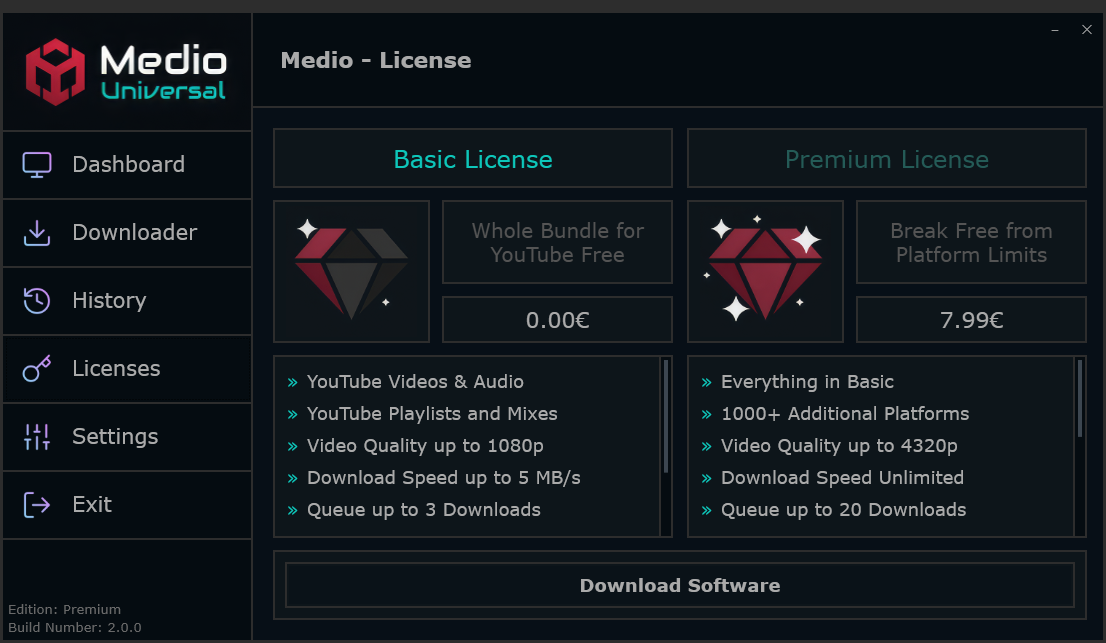
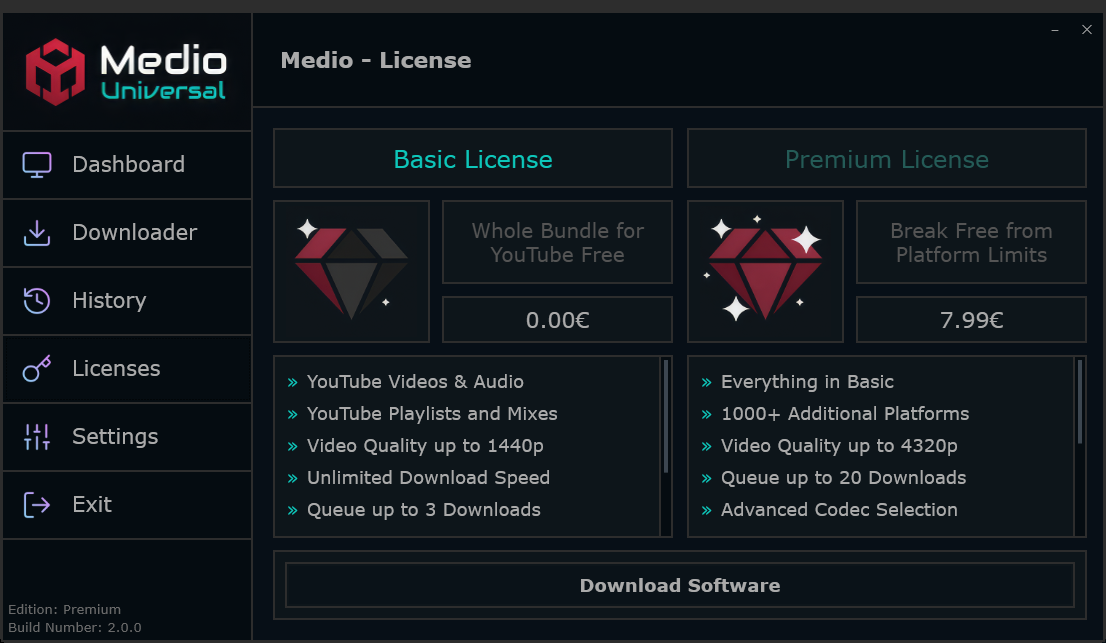
Version 2.0.0

Changed region(s): [[0.6456, 0.7154, 0.8915, 0.8087], [0.2767, 0.6843, 0.5226, 0.7776], [0.9837, 0.9953, 1.0, 1.0]]

diff --git a/README.md b/README.md
@@ -3,41 +3,27 @@
 </p>
 <h1 align="center">Medio - Universal Downloader</h1>
 <p align="center">
-  <b>Effortlessly download videos, extract high-quality audio and save entire playlists from multiple platforms.</b><br>
-  <b>Experience a fast, reliable and feature-rich universal downloader optimized for performance.</b>
+  <b>A Windows GUI for yt-dlp and FFmpeg with cloud sync, queue processing, and advanced preprocessing.</b>
 </p>
 <p align="center">
   <a href="https://github.com/BerndHagen/Medio-Universal-Downloader/releases"><img src="https://img.shields.io/github/v/release/BerndHagen/Medio-Universal-Downloader?include_prereleases&style=flat-square&color=CD853F" alt="Latest Release"></a>&nbsp;&nbsp;<a href="https://github.com/BerndHagen/Medio-Universal-Downloader/blob/main/LICENSE"><img src="https://img.shields.io/badge/License-Freemium-red?style=flat-square" alt="License"></a>&nbsp;&nbsp;<a href="https://dotnet.microsoft.com/download/dotnet/10.0/runtime"><img src="https://img.shields.io/badge/.NET-10.0-512BD4?style=flat-square" alt=".NET Version"></a>&nbsp;&nbsp;<img src="https://img.shields.io/badge/Platform-Windows-0078D6?style=flat-square" alt="Platform">&nbsp;&nbsp;<img src="https://img.shields.io/badge/Architecture-x64-lightgrey?style=flat-square" alt="Architecture">&nbsp;&nbsp;<img src="https://img.shields.io/badge/Status-Active-brightgreen?style=flat-square" alt="Status">&nbsp;&nbsp;<a href="https://github.com/BerndHagen/Medio-Universal-Downloader/issues"><img src="https://img.shields.io/badge/Issues-0_open-orange?style=flat-square" alt="Open Issues"></a>
 </p>
 
-**Medio** is a user-friendly software for downloading video content from various online platforms. Whether you're looking to save videos, extract audio or download entire playlists, this application provides an all-in-one tool to meet your needs. The simple, intuitive interface lets you quickly input a URL, choose your desired quality and filename, and start the download with just a few clicks.
-
-### **Why Choose This Tool?**
-
-While command-line tools like yt-dlp and FFmpeg are powerful, they require technical knowledge and complex command syntax. This downloader provides:
-
-- **Intuitive Interface:** No command-line experience needed - everything is accessible through a clean, modern UI
-- **Smart Defaults:** Optimized settings that work out of the box, with advanced options for power users
-- **Batch Processing:** Queue multiple downloads and let them run automatically
-- **Progress Tracking:** Real-time progress bars, speed indicators, and taskbar integration
-- **Error Resilience:** Automatic retry mechanisms and intelligent error handling
-- **Hardware Acceleration:** One-click GPU acceleration for faster processing without manual configuration
-- **Cloud Sync:** Never lose your settings - seamlessly sync preferences across all your devices
+**Medio** is a graphical frontend for [yt-dlp](https://github.com/yt-dlp/yt-dlp) and [FFmpeg](https://ffmpeg.org) that wraps these open-source command-line tools in an accessible Windows interface. It handles video downloads, audio extraction, playlist processing, and provides cloud-synced settings, a batch queue, and an audio processing pipeline on top of the core tools.
 
 ### **Key Features**
 
-- **Video Downloads:** Download videos from various platforms in a variety of formats and qualities, so you can enjoy your favorite content offline whenever you need it.
-- **Audio Extraction:** Extract and download audio from any supported video with just a few clicks.
-- **Playlist Downloads:** Download entire YouTube playlists and mixes at once, saving time and effort - especially helpful for bulk offline viewing.
-- **Queue Functionality:** Add multiple videos for sequential automated downloading with improved resilience for protected content.
-- **Advanced Customization:** Fine-tune downloads with hardware acceleration GPU selection, download speed limits, audio normalization, metadata embedding, and preferred video codecs.
-- **Universal Downloads:** Premium users can access content from 1000+ platforms and websites, making this a truly universal downloader for your media needs.
-- **Audio Processing:** Adjust audio pitch and speed, apply creative effects like reverb, echo, bass boost, 8D audio, or vaporwave.
-- **SponsorBlock Integration:** Premium users can automatically skip or mark sponsored segments in YouTube videos.
-- **Taskbar Integration:** View real-time download progress directly in the Windows taskbar for convenient monitoring without switching windows.
-- **System Notifications:** Receive desktop notifications when downloads complete, with quick access to open the downloaded file or its folder location.
-- **Cloud Profile:** Your settings, statistics, and progress sync automatically across devices - never reconfigure from scratch.
-- **Privacy Control:** Disable download history tracking to prevent URLs and titles from being stored.
+- **Video Downloads:** Download videos in MP4, MKV, AVI, WEBM, WMV, MOV, FLV at resolutions from 144p to 4320p
+- **Audio Extraction:** Extract audio as MP3, FLAC, OGG, OPUS, WAV, M4A, AAC, WMA at bitrates from 32k to 320k
+- **Playlist Processing:** Batch-download YouTube playlists and mixes
+- **Queue System:** Sequential automated downloads with configurable concurrency
+- **Hardware Acceleration:** GPU encoding via NVIDIA NVENC, AMD AMF, or Intel QuickSync
+- **Universal Platform Support (Premium):** Access 1000+ platforms beyond YouTube
+- **Audio Processing (Premium):** Pitch/speed adjustment, reverb, echo, bass boost, 8D audio, vaporwave
+- **SponsorBlock (Premium):** Skip or mark sponsored segments in YouTube videos
+- **Taskbar Integration:** Real-time progress in the Windows taskbar
+- **Cloud Sync:** Settings, statistics, and history sync across devices (cross-device sync is Premium)
+- **Privacy Control:** Optionally disable download history tracking
 
 ### **Supported Formats**
 
@@ -140,7 +126,12 @@ If you have questions or issues related to these libraries, please [open an issu
 
 ## **License Options and Benefits**
 
-Medio offers two license tiers: a free Basic tier with full YouTube support and a one-time Premium purchase that unlocks universal platform support and advanced features. After purchasing through Stripe's secure payment system, you'll receive your license key via email from Arctisoft-Studio within **5-10 minutes**. 
+Medio offers two license tiers:
+
+- **Basic (Free):** YouTube support with 1440p max resolution, unlimited download speed
+- **Premium (€7.99 one-time):** 1000+ platforms, 4K/8K, audio processing, cross-device sync
+
+License keys are delivered via email within 5-10 minutes after purchase.
 
 | Feature | Basic | Premium |
 |---------|:-----:|:-------:|
@@ -148,13 +139,13 @@ Medio offers two license tiers: a free Basic tier with full YouTube support and 
 | YouTube (videos, audio, playlists, mixes) | ✔ | ✔ |
 | 1000+ additional platforms (Twitch, Vimeo, SoundCloud, etc.) | – | ✔ |
 | **VIDEO & AUDIO QUALITY** | | |
-| Video quality up to 1080p (Full HD) | ✔ | ✔ |
+| Video quality up to 1440p (QHD) | ✔ | ✔ |
 | Video quality up to 4K and 8K (4320p) | – | ✔ |
 | All audio bitrates (32kbps - 320kbps) | ✔ | ✔ |
 | All video formats (MP4, MKV, AVI, WEBM, WMV, MOV, FLV) | ✔ | ✔ |
 | All audio formats (MP3, FLAC, OGG, OPUS, WAV, M4A, AAC, WMA) | ✔ | ✔ |
 | **DOWNLOAD PERFORMANCE** | | |
-| Download speed limit | 5 MB/s | Unlimited |
+| Download speed | Unlimited | Unlimited |
 | Simultaneous downloads in queue | Up to 3 | Up to 20 |
 | Hardware-accelerated conversion (NVIDIA, AMD, Intel) | ✔ | ✔ |
 | **ENCODING OPTIONS** | | |
@@ -175,7 +166,7 @@ Medio offers two license tiers: a free Basic tier with full YouTube support and 
 | Cloud-synced settings | Current device only | All devices |
 | Cross-device profile synchronization | – | ✔ |
 | Download history | 20 entries (2 pages) | 100 entries (10 pages) |
-| Account persistence | Auto-deletion after 180 days inactivity | Permanent |
+| Account persistence | Auto-deletion after 365 days inactivity | Permanent |
 | **PRICE** | **Free** | **€7.99** (one-time) |
 
 When your history reaches its limit, the **oldest entries are automatically removed** to make room for new downloads. Your most recent downloads are always preserved.
@@ -249,12 +240,12 @@ Settings → Advanced → "Track and Save Downloads in History" → Set to **Dis
 ### Data Retention and Deletion
 
 **Account Retention:**
-- **Basic License:** Inactive accounts (no activity for 180 days) are automatically deleted
+- **Basic License:** Inactive accounts (no activity for 365 days) are automatically deleted
 - **Premium License:** Accounts are retained indefinitely
 
 **Deleting Your Data:**
 - **Individual History Entries:** Right-click any entry in the History tab → Delete
-- **Complete Account Deletion:** Navigate to Settings → scroll to "Delete Account" button → confirm twice, or wait 180 days of inactivity for automatic deletion (Basic accounts only)
+- **Complete Account Deletion:** Navigate to Settings → scroll to "Delete Account" button → confirm twice, or wait 365 days of inactivity for automatic deletion (Basic accounts only)
 
 **What Happens When Deleted:**
 - All cloud data is permanently removed
@@ -284,7 +275,7 @@ License keys serve two critical purposes: unlocking Premium features and enablin
    - Your progress, settings, and history remain consistent across all devices
 
 **Important Notes:**
-- **Basic License Limitation:** Basic users cannot sync across devices. If you reinstall Windows or switch computers, you lose access to your profile (automatic deletion after 180 days of inactivity)
+- **Basic License Limitation:** Basic users cannot sync across devices. If you reinstall Windows or switch computers, you lose access to your profile (automatic deletion after 365 days of inactivity)
 - **Premium Benefit:** Your license key is your "passport" to access your profile from any device, anytime
 - **Device Security:** License keys can be activated on up to 2 devices simultaneously for security purposes
 - **Profile Persistence:** Premium profiles are never automatically deleted - they're retained indefinitely
@@ -353,38 +344,41 @@ Follow these steps to start downloading content:
 
 ## **Advanced Settings**
 
-For advanced users, Medio offers an Advanced Settings section accessible from the main navigation, allowing fine-tuned control over download and conversion processes:
+The Advanced Settings panel provides granular control over download and conversion parameters:
 
-- **Video & Audio Quality:** Select preferred resolution (144p–4320p) and bitrate (32k–320k) - Basic users are limited to 1080p max, Premium unlocks up to 4K/8K.
-- **Hardware Acceleration:** Manually select GPU acceleration (NVIDIA NVENC, AMD AMF, Intel QuickSync) or disable for CPU-only processing, with improved detection for legacy hardware.
-- **Download Speed Limit:** Configure maximum download speeds from 1 MB/s to unlimited (Premium) to manage bandwidth usage.
-- **Download History Tracking:** Enable or disable recording of download URLs and titles - when disabled, only statistics are tracked.
-- **Buffer Size:** Adjust download buffer size (1024–9216 KB) for optimal streaming performance depending on your connection.
-- **Concurrent Fragments:** Control the number of simultaneous download fragments (1–16) for faster parallel downloading.
-- **Retry & Timeout:** Configure automatic retry attempts (5–Infinite) and connection timeout thresholds (15–300 seconds) for improved reliability.
-- **Geo-bypass:** Bypass region-locked content restrictions (Disabled, Enabled, US Region) for accessing geographically restricted media.
-- **Subtitle Extraction:** Download subtitle tracks in multiple modes (Disabled, Auto English, All Languages).
-- **SponsorBlock:** Premium feature to automatically skip or mark sponsored segments in YouTube videos.
-- **Audio Normalization:** Adjust volume levels (Disabled, Light, Medium, Strong, Aggressive) for consistent audio playback quality.
-- **Metadata Embedding:** Toggle inclusion of thumbnails and metadata in downloaded files.
-- **Video Codec:** Choose preferred codecs - Basic users can use H.264, Premium users unlock H.265, VP8, VP9, AV1, and MPEG-4.
-- **Video Audio Codec:** Select the audio codec used when downloading video files (Auto, AAC, MP3, Opus, Copy).
-- **Deinterlace:** Process interlaced video content for progressive playback (Disabled, Auto, Force).
-- **Two-Pass Encoding:** Premium feature that enables higher quality encoding at the cost of longer processing time.
-- **FFmpeg Encoding Controls:** Fine-tune encoding with preset selection (Ultrafast–Veryslow), CRF quality values (18–35 or Auto), and thread count configuration for multi-core optimization.
-- **Audio Processing Suite (Premium):** Complete audio processing toolkit including:
-  - Audio pitch adjustment (0.25x - 2.0x)
-  - Audio speed adjustment (0.25x - 2.0x)
-  - Audio enhancement (professional 6-stage mastering chain)
-  - Creative FX (Reverb, Echo, Bass Boost, 8D Audio, Vaporwave)
+**Download Configuration:**
+- Quality selection (144p–4320p video, 32k–320k audio) — Basic: up to 1440p, Premium: up to 4K/8K
+- Download speed limit (1 MB/s to unlimited)
+- Hardware acceleration (NVIDIA NVENC, AMD AMF, Intel QuickSync, CPU-only)
+- Network tuning: concurrent fragments (1–16), retries (5–Infinite), timeout (15–300s)
+- Buffer size (1024–9216 KB)
+- Geo-bypass for region-locked content
+- Subtitle extraction (Disabled, English, All Languages)
+- Download history tracking toggle
+
+**Encoding Options:**
+- Video codec: H.264 (Basic) / H.264, H.265, VP8, VP9, AV1, MPEG-4 (Premium)
+- Video audio codec: Auto, AAC, MP3, Opus, Copy
+- FFmpeg presets (Ultrafast–Veryslow), CRF quality (18–35 or Auto), thread count
+- Two-pass encoding (Premium)
+- Deinterlace (Disabled, Auto, Force)
+- Metadata embedding (thumbnails, title, artist)
+- Audio normalization (5 intensity levels)
+
+**Audio Processing (Premium):**
+- Pitch adjustment (0.25x–2.0x)
+- Speed adjustment (0.25x–2.0x)
+- Audio enhancement (6-stage mastering chain)
+- Creative FX (Reverb, Echo, Bass Boost, 8D Audio, Vaporwave)
+
+**Additional:**
+- SponsorBlock ad-skipper for YouTube (Premium)
 
 All settings sync automatically across devices for Premium users.
 
 ## **Download Status Guide**
 
-During downloads and conversions, Medio provides detailed status information to keep you informed about what's happening. These status indicators help you understand the current operation and identify any issues.
-
-Below are the status messages you may encounter:
+Medio displays real-time status information during downloads and conversions.
 
 ### Progress Status Messages
 
@@ -392,7 +386,7 @@ Below are the status messages you may encounter:
 |-------------------------|-------------------------------------------------------------------------|
 | `Scanning`              | Validating and analyzing the provided URL                              |
 | `Loading Tools`         | Initializing download components and preparing resources               |
-| `Building Command`      | Assembling command arguments for yt-dlp and ffmpeg                     |
+| `Building Command`      | Assembling command arguments for yt-dlp and FFmpeg                     |
 | `Preparing Next`        | Processing the next video in a playlist/queue after successful download |
 | `Downloading: XX%`      | Live download progress with percentage and speed information           |
 | `Converting: XX%`       | Video conversion progress with speed and duration information          |
@@ -411,18 +405,18 @@ Below are the status messages you may encounter:
 
 ### Error Status Messages
 
-| Status                  | Description                                                             |
-|-------------------------|-------------------------------------------------------------------------|
-| `Empty Link`            | URL field is empty and requires a valid video link                     |
-| `Invalid Link`          | Link does not have a typical URL format or structure                   |
-| `Unsupported Link`      | URL is not supported by the download engine                            |
-| `Network Error`         | Connection lost during download or insufficient bandwidth              |
-| `Content Blocked`       | yt-dlp cannot download from this source due to platform-side restrictions |
-| `Copyright Error`       | Platform reports content restrictions preventing download              |
-| `File Exists`           | Content already exists in the directory and will be skipped            |
-| `Playlist Error`        | Playlist information could not be gathered from the provided link      |
-| `Tools Missing`         | Required tools (yt-dlp or ffmpeg) could not be found                   |
-| `Premium Required`      | Feature requires Premium license activation                            |
+| Status                  | Description                                                             | Solution                                          |
+|-------------------------|-------------------------------------------------------------------------|---------------------------------------------------|
+| `Empty Link`            | URL field is empty                                                     | Enter a valid video URL                           |
+| `Invalid Link`          | URL does not have a recognized format                                  | Check the URL and try again                       |
+| `Unsupported Link`      | URL is not supported by yt-dlp                                         | Try a different source or check yt-dlp support    |
+| `Network Error`         | Connection lost or insufficient bandwidth                              | Check internet connection and retry               |
+| `Content Blocked`       | Platform-side restrictions prevent download                            | Content may be geo-locked or age-restricted       |
+| `Copyright Error`       | Platform reports content restrictions                                  | Content is not available for download              |
+| `File Exists`           | File already exists in the download directory                          | File is skipped automatically                     |
+| `Playlist Error`        | Playlist information could not be gathered                             | Verify the playlist URL is accessible              |
+| `Tools Missing`         | yt-dlp or FFmpeg not found                                             | Restart Medio to trigger auto-install              |
+| `Premium Required`      | Feature requires Premium license                                       | Activate a Premium license key                    |
 
 If you encounter an `Unknown Error`, this indicates an unexpected issue that hasn't been accounted for. If this error persists, please report it in the [GitHub issue section](https://github.com/BerndHagen/Medio-Universal-Downloader/issues) with details about what you were trying to download and your settings.
 
@@ -483,58 +477,54 @@ If you're unsure whether downloading specific content is legal in your jurisdict
 
 ## **Frequently Asked Questions**
 
-**Q: Why should I pay for Medio when yt-dlp and FFmpeg are free?**
+**Q: Why pay for Medio when yt-dlp and FFmpeg are free?**
 
-A: You're absolutely right that the underlying tools are free and open-source. Medio provides value through its intuitive interface, smart defaults, batch processing capabilities, automatic cloud sync, and error handling that would require significant technical knowledge to replicate manually. Think of it as paying for convenience, reliability, and time savings rather than the core functionality.
+A: Medio provides a GUI, cloud sync, queue management, and audio processing on top of yt-dlp/FFmpeg. The Premium tier funds cloud infrastructure and unlocks 1000+ platforms, the audio processing suite, and advanced codec options. The underlying tools remain free and open-source.
 
-**Q: What data does Medio collect about me?**
+**Q: What data does Medio collect?**
 
-A: Medio stores settings, statistics (download counts, total MB, XP/level), and license status in the cloud. If history tracking is enabled (the default), download URLs and titles are also stored. **No personal identifying information** like names, emails, or addresses is collected.
+A: Settings, statistics (download counts, MB, XP/level), and license status. If history tracking is enabled (default), download URLs and titles are also stored. **No personal identifying information** is collected.
 
-**Q: Why does Medio use cloud storage instead of storing everything locally?**
+**Q: Why cloud storage instead of local?**
 
-A: Since Medio requires internet connectivity for downloads anyway, cloud storage provides valuable benefits at no additional cost: automatic settings backup, persistent progress tracking even after Windows reinstalls, and cross-device synchronization for Premium users. For Basic users who prefer complete privacy, you can disable history tracking - only minimal statistics (download counts, XP) will be stored for the gamification system.
+A: Internet connectivity is required for downloads anyway. Cloud storage provides automatic settings backup, persistent progress across reinstalls, and cross-device sync (Premium). You can disable history tracking to minimize stored data.
 
-**Q: Can I use Medio completely offline or without cloud storage?**
+**Q: Can I use Medio offline?**
 
-A: No. Medio's architecture requires cloud connectivity for profile management and settings sync. However, you can disable download history tracking to minimize data collection - only statistics will be stored.
+A: No. Cloud connectivity is required for profile management. You can disable history tracking to minimize data collection.
 
 **Q: Is it legal to download videos from YouTube?**
 
-A: YouTube's Terms of Service may restrict downloading content unless explicitly permitted by the platform. Medio is a technical tool - the legal responsibility for what you download rests with you. Only download content you have the right to access.
+A: YouTube's Terms of Service may restrict downloading. Medio is a technical tool — legal responsibility rests with you.
 
 **Q: What happens if I disable history tracking after using it?**
 
-A: New downloads will no longer create history entries. Your existing cloud-stored history remains accessible in the app until you delete individual entries or your account is removed due to inactivity (180 days for Basic accounts).
+A: New downloads will no longer create history entries. Your existing cloud-stored history remains accessible in the app until you delete individual entries or your account is removed due to inactivity (365 days for Basic accounts).
 
-**Q: Can I transfer my license to another person?**
+**Q: Can I transfer my license?**
 
-A: No. License keys are non-transferable and tied to the original purchaser. Each license supports activation on up to 2 devices simultaneously for personal use. The system monitors activation patterns, and keys that show suspicious sharing behavior (such as activations from multiple countries within short timeframes) may be flagged for review or deactivated. If you need licenses for multiple users, separate purchases are required.
-
-**Q: Why are there speed limits on Basic licenses?**
-
-A: The speed limitations help manage server infrastructure and bandwidth costs while still providing full functionality for YouTube downloads. Premium licenses remove these restrictions for users who need faster downloads or multi-platform support.
+A: No. License keys are non-transferable and support up to 2 simultaneous device activations. Keys showing suspicious sharing patterns (e.g., activations from multiple countries) may be flagged or deactivated.
 
 **Q: How do I completely delete all my data?**
 
 A: Delete individual history entries via right-click in the History tab. For complete account deletion:
 - Navigate to Settings → scroll to "Delete Account" button → confirm twice
-- **Basic accounts:** Alternatively, wait 180 days of inactivity for automatic deletion
+- **Basic accounts:** Alternatively, wait 365 days of inactivity for automatic deletion
 - **Premium accounts:** Can also use the Delete Account button or contact support via GitHub issue tracker
 
 Your license key remains valid after account deletion and can be used to create a fresh profile on any device.
 
 **Q: What happens to my data if my account is deleted?**
 
-A: Downloaded files on your local device are never affected by account deletion. Only cloud-stored settings and history are removed. Your actual video/audio files remain on your computer.
+A: Only cloud data (settings, history) is removed. Downloaded files on your device are never affected. License keys remain valid and can be reactivated on a new install.
 
-**Q: What happens if I reinstall Windows or get a new computer as a Basic user?**
+**Q: What if I reinstall Windows or switch computers (Basic)?**
 
-A: Basic users lose access to their cloud profile when switching devices or reinstalling Windows. Your cloud profile will be automatically deleted after 180 days of inactivity. To maintain persistent access across devices, upgrade to Premium - your license key becomes your "passport" to retrieve your profile from any device.
+A: Basic users lose access to their cloud profile on device change. The profile is auto-deleted after 365 days of inactivity. Premium license keys allow retrieving your profile from any device.
 
-**Q: Can I use the same license key on multiple devices?**
+**Q: Can I use my license key on multiple devices?**
 
-A: Yes! Premium license keys enable profile synchronization across all your devices. Enter the same key on a new device to retrieve your settings, statistics, and history. Basic licenses don't support cross-device sync.
+A: Yes. Enter the same key on a new device to sync your settings, statistics, and history. Basic licenses don't support cross-device sync.
 
 ## **Screenshots**
 
